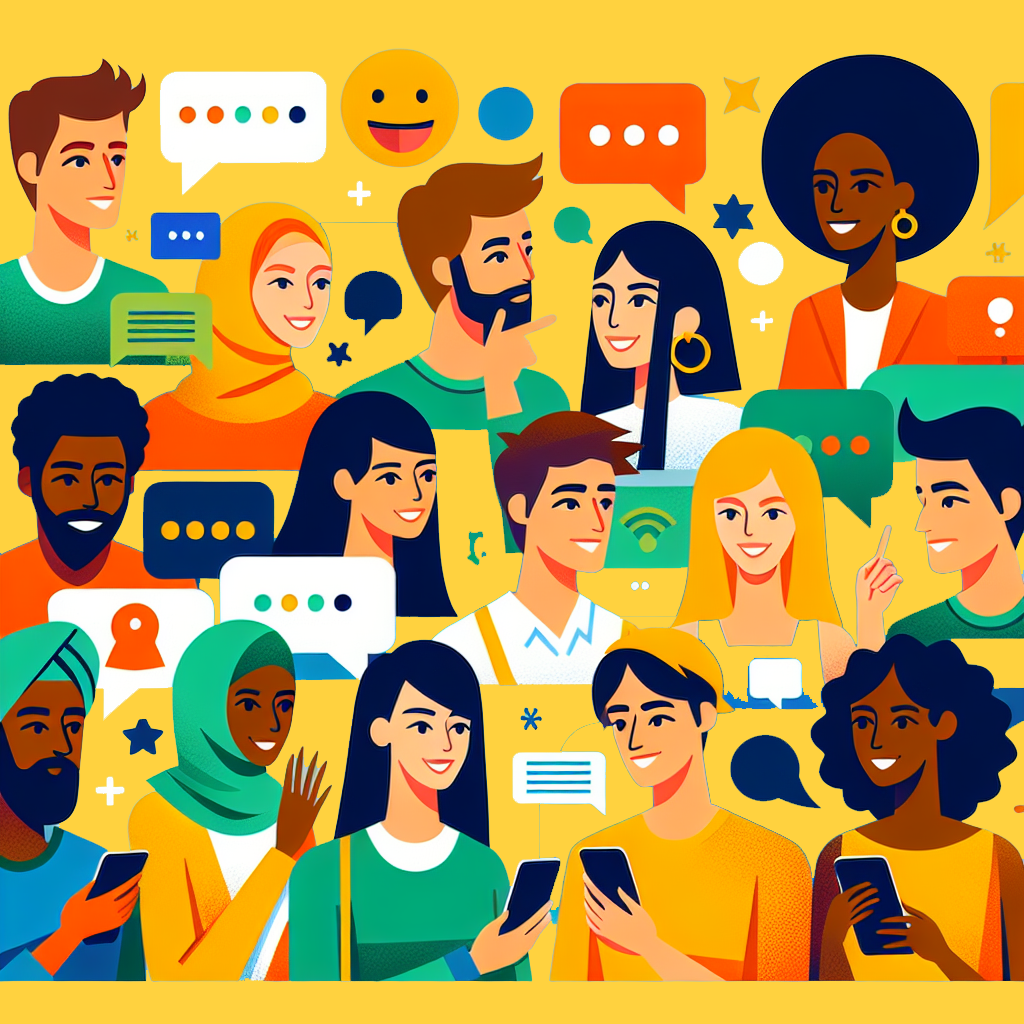
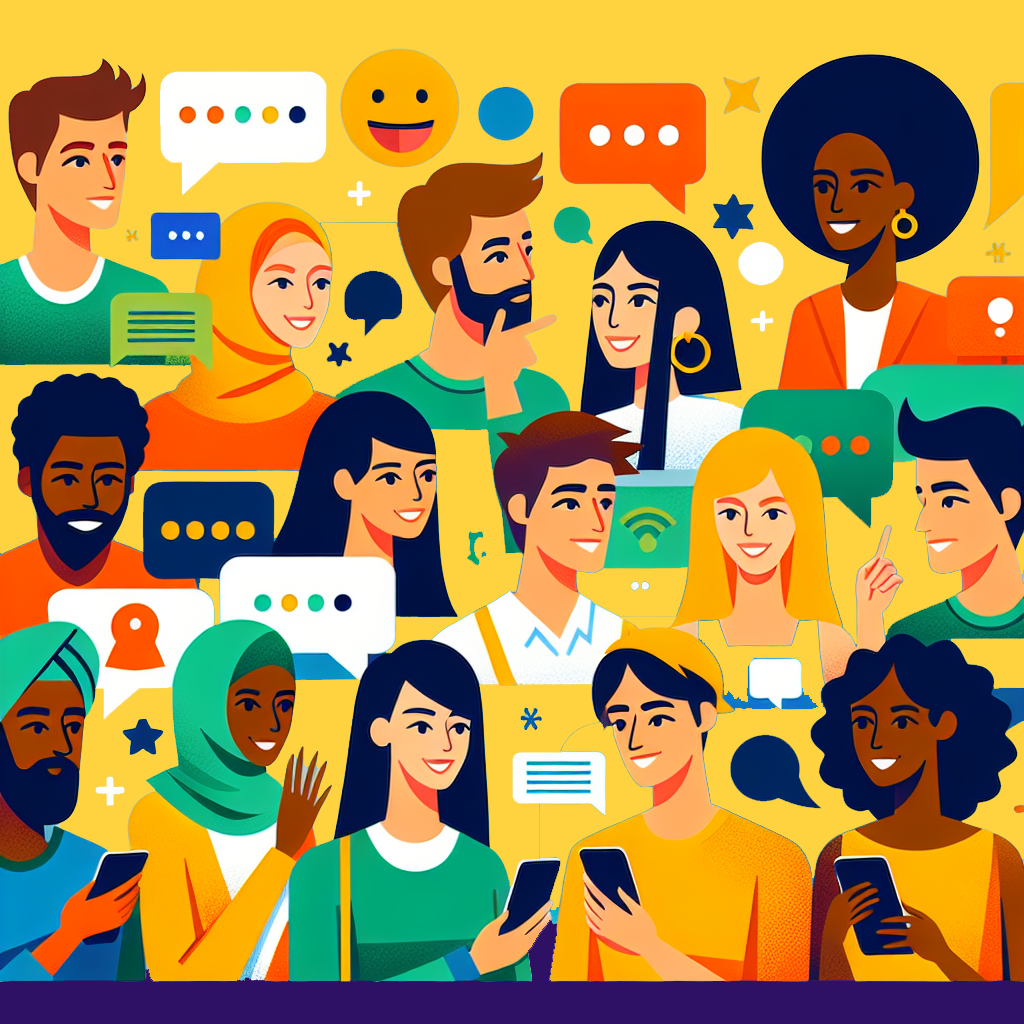
Updated two more components below

Changed region(s): [[0.0, 0.9062, 1.0, 1.0]]

diff --git a/public/assets/css/style.css b/public/assets/css/style.css
@@ -894,6 +894,16 @@ img{
 --------------------------------*/
 
 
+.features {
+	background: linear-gradient(
+    90deg,
+    #FFD23F 0%,  /* Yellow */
+    #FF914D 100% /* Tangerine */
+  );
+  color: #1A1A1A;
+	padding: 120px 0; /* Keeping existing padding for layout */
+}
+
 .feature-item{
 	border: 2px solid #F5F5F5;
 	padding: 80px 30px 50px;
@@ -961,11 +971,31 @@ img{
 # About
 --------------------------------*/
 
+.about {
+  background: linear-gradient(
+    135deg,
+    #5B21B6 0%,   /* Bright Purple */
+    #2E1065 100%  /* Deep Midnight Purple */
+  );
+  color: #fff;
+  padding: 120px 0; /* Adding padding to maintain layout similar to other sections */
+}
+
 .about-title{
 	margin-bottom: 30px;
 }
+.about-title span,
+.about-title h2 {
+    color: #fff;
+}
 .single_about {
 	margin-bottom: 45px;
+    color: #fff;
+}
+.single_about p,
+.single_about h3,
+.single_about h4 {
+    color: #fff;
 }
 .single_about .aicon{
 	float: left;
@@ -973,6 +1003,9 @@ img{
 }
 .single_about .aicon svg{
 	width: 50px;
+}
+.single_about .aicon svg path{
+    fill: #FFD23F;
 }
 
 /*-------------------------------
